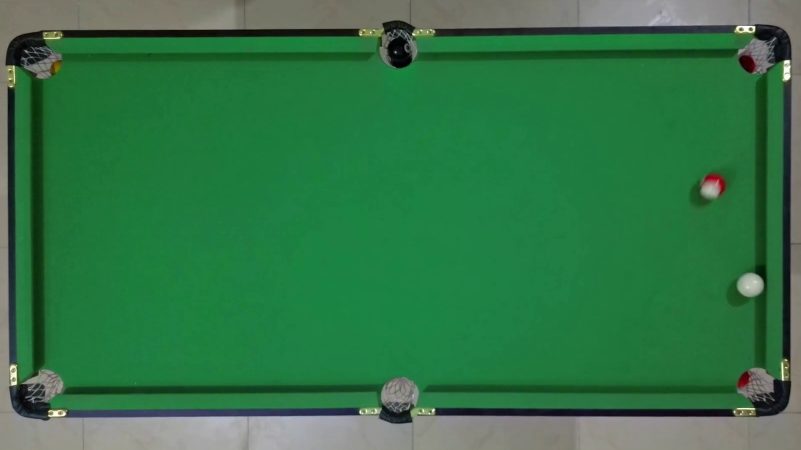
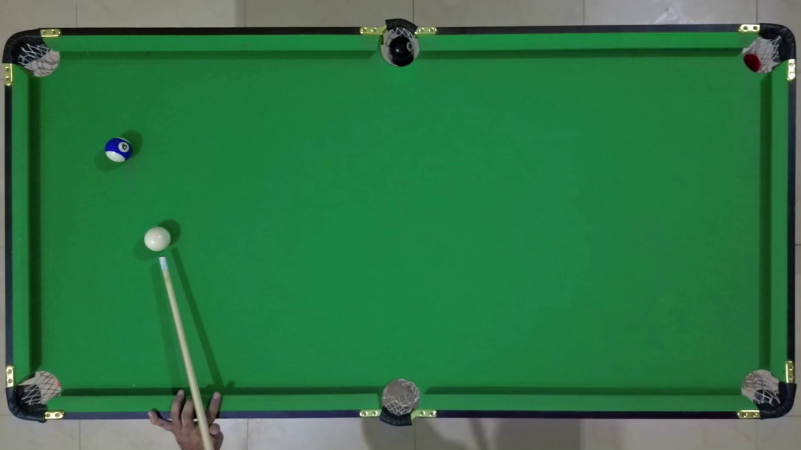
Update collision detection

diff --git a/main.py b/main.py
@@ -1,4 +1,5 @@
 import cv2
+import math
 import numpy as np
 
 def stackImages(scale,imgArray):
@@ -31,6 +32,19 @@ def stackImages(scale,imgArray):
         hor= np.hstack(imgArray)
         ver = hor
     return ver
+
+def getCosSin(deg):
+    angulo = math.radians(deg)
+    seno = math.sin(angulo)
+    cosseno = math.cos(angulo)
+
+    if cosseno == 6.123233995736766e-17:
+        cosseno = 0
+
+    if seno == 6.123233995736766e-17:
+        seno = 0
+
+    return seno, cosseno
 
 def colorFilter(img, lower, upper):
     imgHSV = cv2.cvtColor(img,cv2.COLOR_BGR2HSV)
@@ -127,9 +141,9 @@ def findColoredBalls(img):
         if ballCount == 1:
             x, y, w, h = foundBalls[0][0], foundBalls[0][1], foundBalls[0][2], foundBalls[0][3]
             cv2.putText(imgCropped, "Bola", (x+(w//2)+28, y+(h//2)+88), cv2.FONT_HERSHEY_SIMPLEX, 0.4,  (0,0,255), 1)
-            #return [x+38, y+110, w, h]
+            return [x+38, y+110, w, h]
     coloredBalls = stackImages(0.46, [[filteredImgs[0], filteredImgs[1], filteredImgs[2], filteredImgs[3]], [filteredImgs[4], filteredImgs[5], filteredImgs[6], filteredImgs[7]]])
-    return coloredBalls
+    #return coloredBalls
 
 # Function to calculate de line between two points
 def lineEquation(point1, point2):
@@ -158,19 +172,23 @@ def detectCollision(cueBall, coloredBall):
     cueBallList = []
     coloredBallList = []
 
-    for x in range(cueBall[0], cueBall[2]):
-        cueBallList.append([x,cueBall[1]])
-        cueBallList.append([x,cueBall[3]])
-    for y in range(cueBall[1], cueBall[3]):
-        cueBallList.append([cueBall[0],y])
-        cueBallList.append([cueBall[2],y])
+    radius = (cueBall[2]-cueBall[0])//2
+    oX = cueBall[0]+(cueBall[2]-cueBall[0])//2
+    oY = cueBall[1]+(cueBall[3]-cueBall[1])//2
+    for ang in range(0, 360):
+        seno, cosseno = getCosSin(ang)
+        pX = int(cosseno*radius)
+        pY = int(seno*radius)
+        cueBallList.append([oX+pX, oY+pY])
 
-    for x in range(coloredBall[0], coloredBall[2]):
-        coloredBallList.append([x,coloredBall[1]])
-        coloredBallList.append([x,coloredBall[3]])
-    for y in range(coloredBall[1], coloredBall[3]):
-        coloredBallList.append([coloredBall[0],y])
-        coloredBallList.append([coloredBall[2],y])
+    radius = (coloredBall[2]-coloredBall[0])//2
+    oX = coloredBall[0]+(coloredBall[2]-coloredBall[0])//2
+    oY = coloredBall[1]+(coloredBall[3]-coloredBall[1])//2
+    for ang in range(0, 360):
+        seno, cosseno = getCosSin(ang)
+        pX = int(cosseno*radius)
+        pY = int(seno*radius)
+        coloredBallList.append([oX+pX, oY+pY])
 
     collisionPoints = []
     for point in cueBallList:
@@ -184,7 +202,7 @@ def detectCollision(cueBall, coloredBall):
             xPt += point[0]
             yPt += point[1]
         collisionPt = [xPt//len(collisionPoints), yPt//len(collisionPoints)]
-        cv2.circle(imgCropped, (collisionPt[0], collisionPt[1]), 8, (0,0,255), cv2.FILLED)
+        cv2.circle(imgCropped, (collisionPt[0], collisionPt[1]), 8, (0,200,200), cv2.FILLED)
         return True, collisionPt
     return False, []
 
@@ -193,6 +211,8 @@ def pathPrediction(collisionPoint, coloredBall):
     ballCenter = [coloredBall[0]+coloredBall[2]//2, coloredBall[1]+coloredBall[3]//2]
     m2, n2 = lineEquation(collisionPoint, [ballCenter[0]+1, ballCenter[1]+1])
     
+    paths = []
+    paths.append(ballCenter)
     if collisionPoint[0] > coloredBall[0]+coloredBall[2]//2:
         x2 = 30
     else:
@@ -200,13 +220,24 @@ def pathPrediction(collisionPoint, coloredBall):
     y2 = int((m2*x2)+n2)
     if y2 > 395:
         y2 = 395
+        x3 = x2
         x2 = int((y2-n2)/m2)
+        y3 = int(((-m2)*x3)+n2)
+        paths.append([x2, y2])
+        paths.append([x3,y3])
     if y2 < 60:
         y2 = 60
+        x3 = x2
         x2 = int((y2-n2)/m2)
-    dottedLine(imgCropped, (ballCenter[0], ballCenter[1]), (x2, y2),  (0,200,0))
-
-    
+        y3 = int(((-m2)*x3)+n2)
+        paths.append([x2, y2])
+        paths.append([x3,y3])
+    paths.append([x2, y2])
+    for i, path in enumerate(paths):
+        if i == 0:
+            pass
+        else:
+            dottedLine(imgCropped, (paths[i-1][0], paths[i-1][1]), (path[0], path[1]),  (0,200,0))
 
 # Control all the calculations used for the prediction
 def trajectoriaPrediction(taco, cueBall, coloredBalls):
@@ -251,12 +282,12 @@ while True:
     # Detect the objects 
     taco = findTaco(imgCropped)
     cueBall = findCueBall(imgCropped)
-    #coloredBalls = findColoredBalls(imgCropped)
-    filterImg = findColoredBalls(imgCropped)
+    coloredBalls = findColoredBalls(imgCropped)
+    #filterImg = findColoredBalls(imgCropped)
 
     # Start the calculations
-    #trajectoriaPrediction(taco, cueBall, coloredBalls)
+    trajectoriaPrediction(taco, cueBall, coloredBalls)
     #finalImg = stackImages(0.7, [imgCropped, taco])
-    cv2.imshow("Result", filterImg)
-    if cv2.waitKey(75) & 0xFF == ord('q'):
+    cv2.imshow("Result", imgRaw)
+    if cv2.waitKey(10) & 0xFF == ord('q'):
         break
